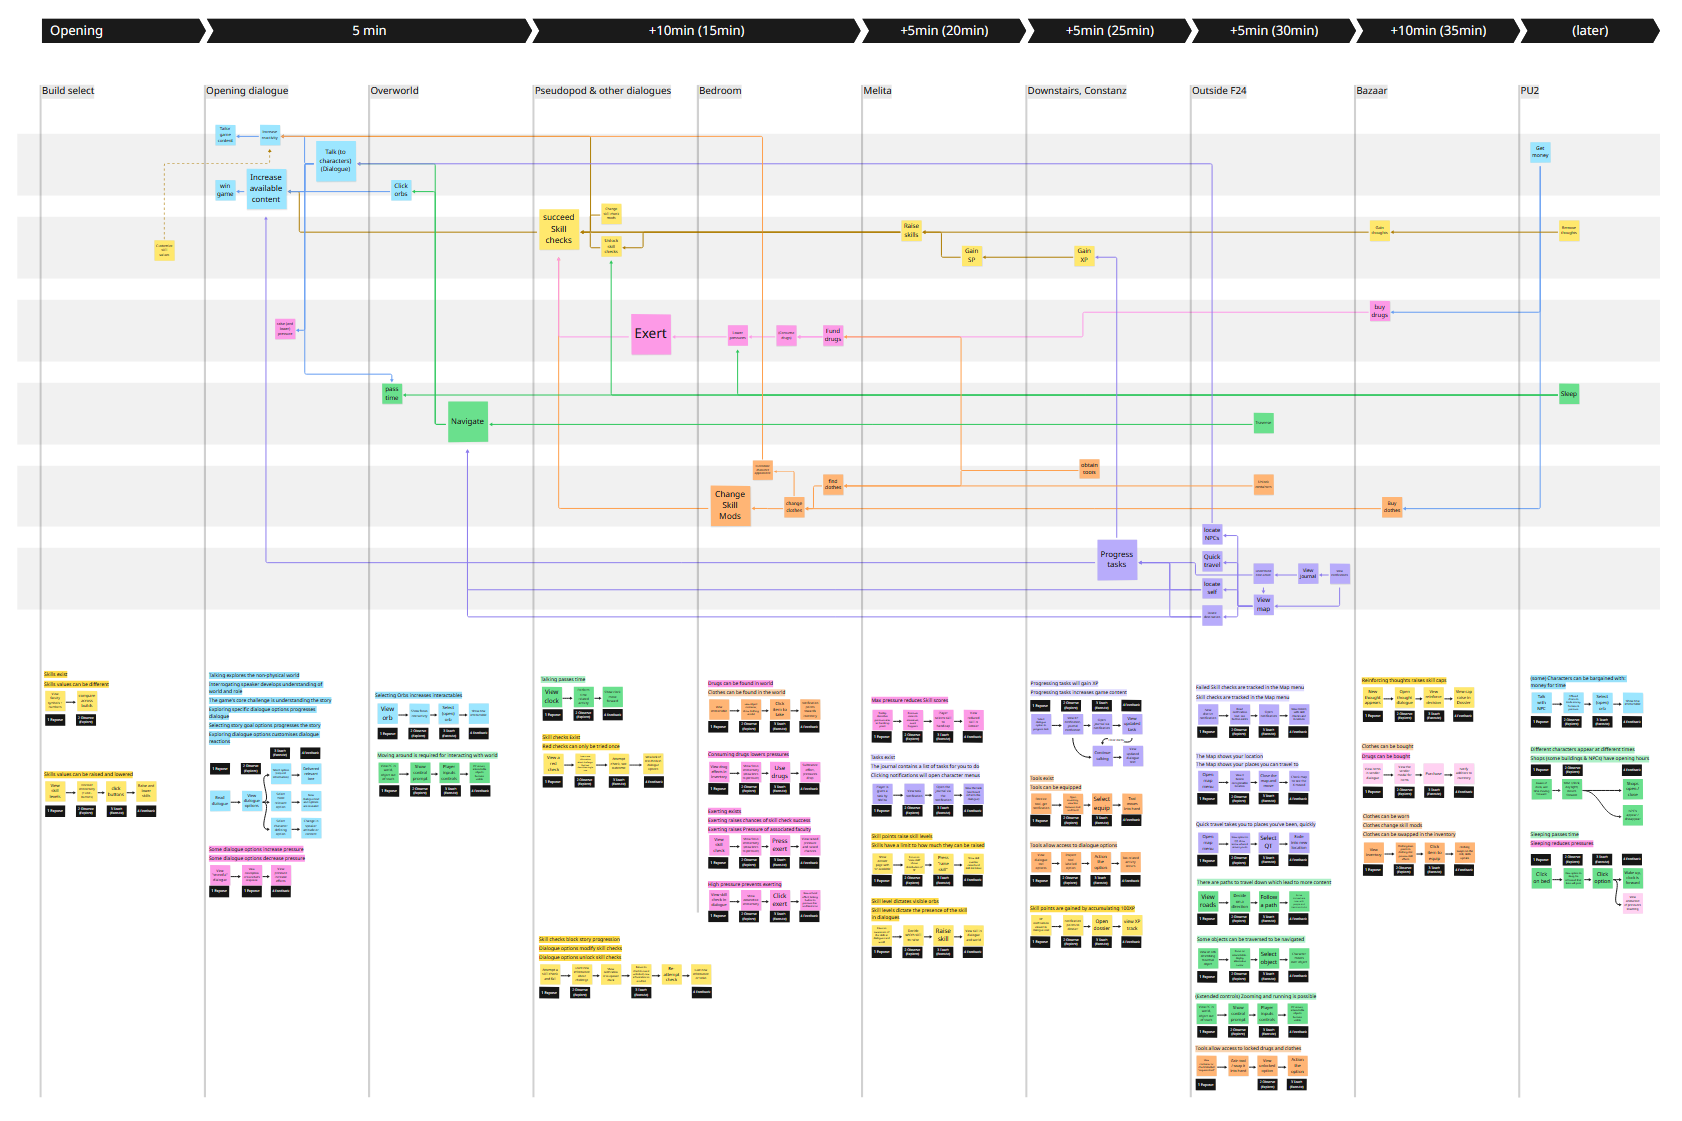
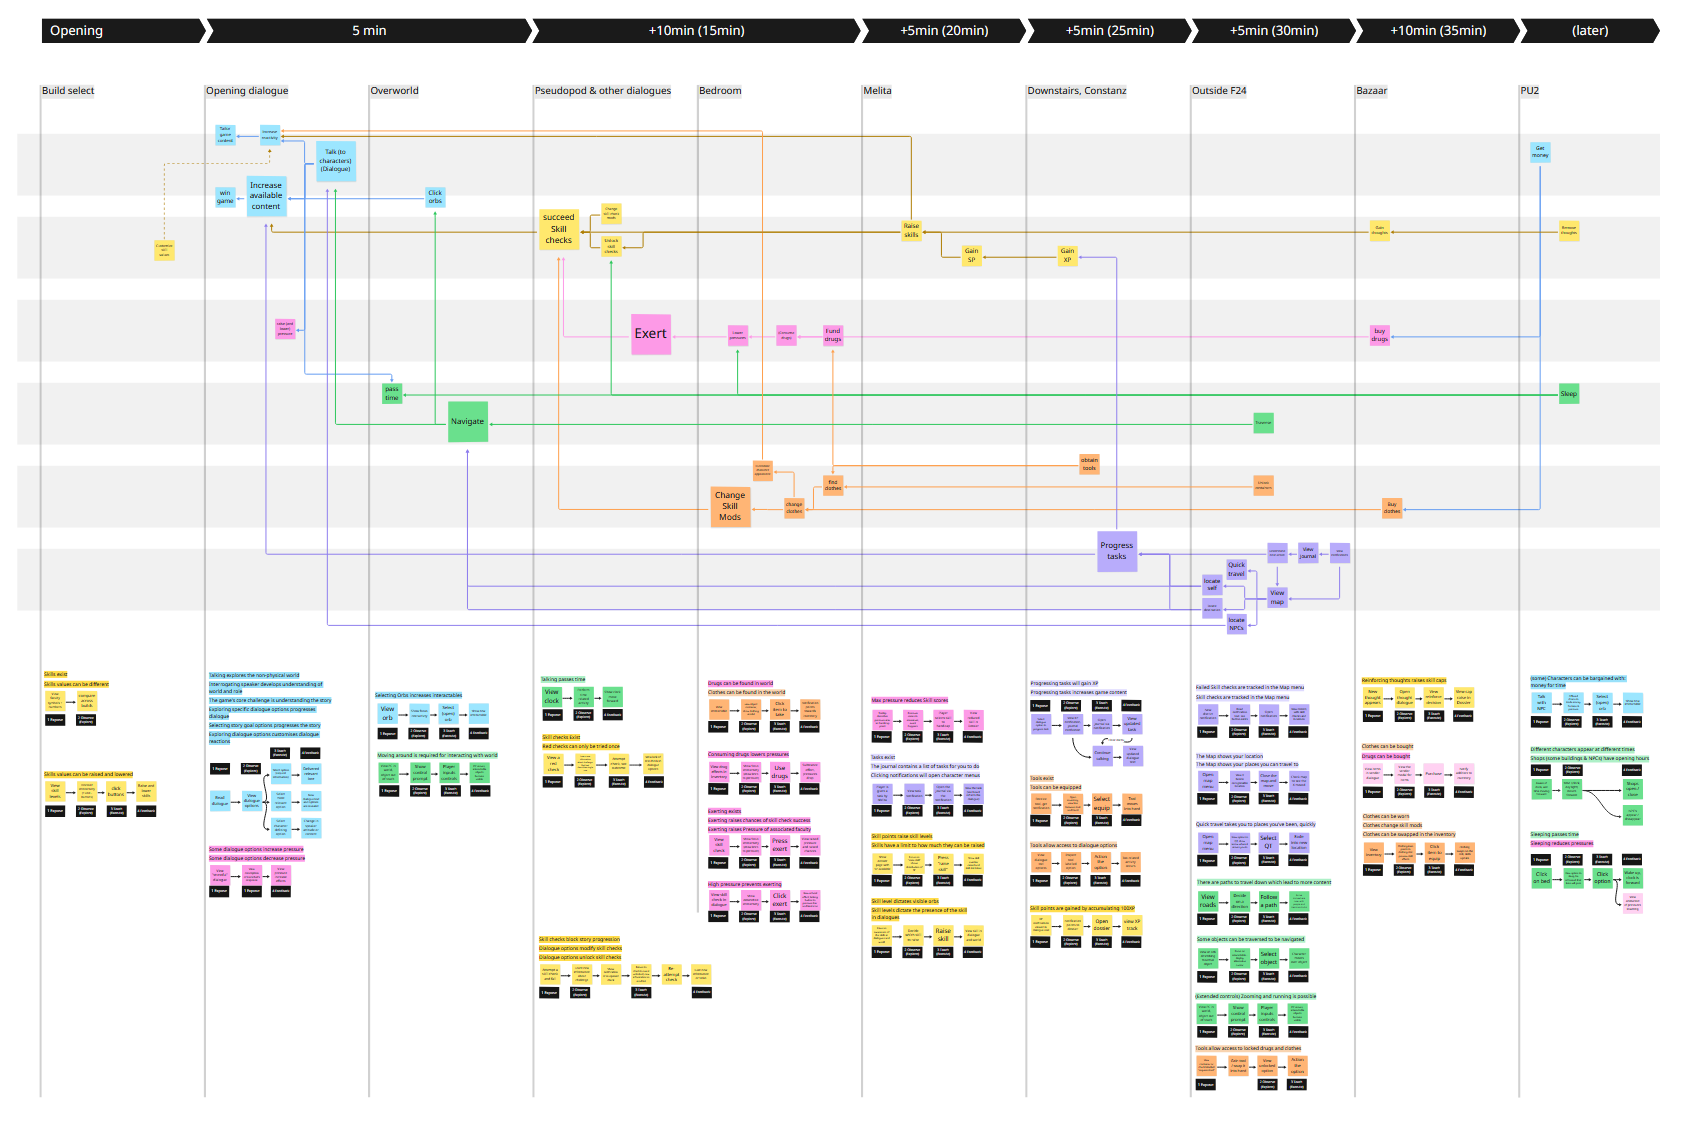
new utility map

diff --git a/portfolio/zero-parades.html b/portfolio/zero-parades.html
@@ -219,16 +219,6 @@ layout: default
 	<p>
 	In order to teach the player the extent of their autonomy, I identified the games' Utility Map; a graph of how the systems group and influence each other. This is used to ensure that when systems and concepts are introduced to the player, they build upon game knowledge they already have. For example, the player will learn what <i>Pressures</i> (our stand-in for health) are before gaining <i>Consumables</i> (items which are used "heal").
 	</p>
-	</div>
-</div>
-<div class="nav-pad no-mobile"></div>
-<div class="wide-pic-holder">
-	<img alt="zero parades utility map" src="/images/portfolio/zp_utilitymap.png">
-</div>
-<div class="nav-pad no-mobile"></div>
-
-<div class="center-col">
-	<div class="mobile-sidepad">
 	<p>
 Becoming onboarded into a system is a 4 step learning process: Awareness, Testing, Action, Feedback. For example, for <i>Consumables</i>:
 
@@ -242,11 +232,16 @@ Becoming onboarded into a system is a 4 step learning process: Awareness, Testin
 	</p>
 	</div>
 </div>
-
 <div class="nav-pad no-mobile"></div>
 <div class="wide-pic-holder">
-	<img alt="zero parades onboarding flows" src="/images/portfolio/zp_onboarding.png">
+	<img alt="zero parades utility map" src="/images/portfolio/zp_utilitymap.png">
 </div>
+
+
+<!-- <div class="nav-pad no-mobile"></div>
+<div class="wide-pic-holder">
+	<img alt="zero parades onboarding flows" src="/images/portfolio/zp_onboarding.png">
+</div> -->
 
 
 <div class="nav-pad no-mobile"></div>